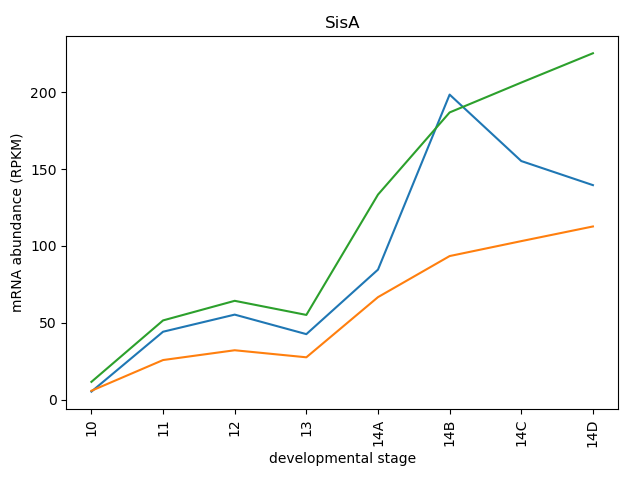
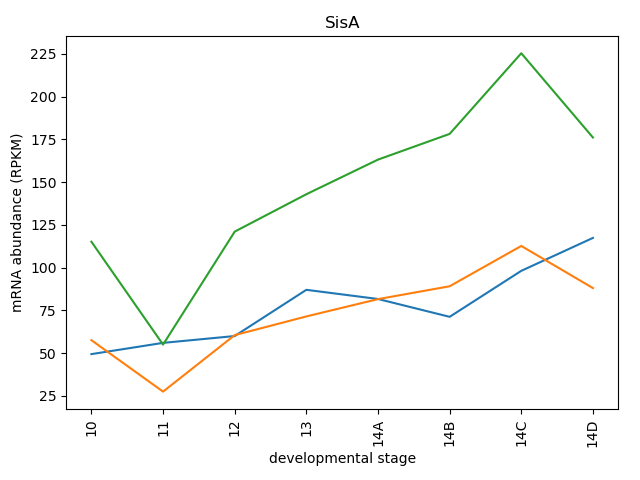
Add answer for exercise 2

diff --git a/day2-homework/plot-sisA.py b/day2-homework/plot-sisA.py
@@ -3,8 +3,25 @@
 import numpy as np
 import matplotlib.pyplot as plt
 
-transcripts = np.loadtxt( "all_annotated.csv", delimiter=",", usecols=0, dtype="<U30", skiprows=1 )
-print( "transcripts: ", transcripts[0:5] )
+f = open("all_annotated.csv", "r")
+transcripts = f.readlines()
+
+trans=[]
+for i in transcripts[1:]:
+    i = i.rstrip()
+    transcripts_list = i.split(",")
+    i = transcripts_list[0]
+    trans.append(i)
+
+print(trans[0])
+
+#samples = transcripts[0].rstrip().split(",") [2:]
+#print(samples)
+ 
+
+#print(transcripts[0])
+#transcripts = np.loadtxt( "all_annotated.csv", delimiter=",", usecols=0, dtype="<U30", skiprows=1 )
+#print( "transcripts: ", transcripts[0:5] )
 
 samples = np.loadtxt( "all_annotated.csv", delimiter=",", max_rows=1, dtype="<U30" )[2:]
 print( "samples: ", samples[0:5] )
@@ -12,12 +29,13 @@ print( "samples: ", samples[0:5] )
 data = np.loadtxt( "all_annotated.csv", delimiter=",", dtype=np.float32, skiprows=1, usecols=range(2, len(samples) + 2) )
 print( "data: ", data[0:5, 0:5] )
 
-# Find row with transcript of interest
+#Find row with transcript of interest
 for i in range(len(transcripts)):
-    if transcripts[i] == 'FBtr0073461':
+    print(transcripts[i])
+    if 'FBtr0073461' in transcripts[i] :
         row = i
 
-# Find columns with samples of interest
+ #Find columns with samples of interest
 colsf = []
 colsm = []
 for i in range(len(samples)):
@@ -27,11 +45,11 @@ for i in range(len(samples)):
         colsm.append(i)
 
 
-# Subset data of interest
+ #Subset data of interest
 expressionf = data[row, colsf]
 expressionm = data[row,colsm]
 
-# Prepare data
+ #Prepare data
 x = samples[colsf]
 yf = expressionf
 ym = expressionm
@@ -39,7 +57,7 @@ ym2 = 2 * np.array(ym)
 
 x = [10, 11, 12, 13, "14A", "14B", "14C", "14D"]
 
-# Plot data
+ #Plot data
 fig, ax = plt.subplots()
 ax.set_xlabel("developmental stage")
 ax.set_ylabel("mRNA abundance (RPKM)")
